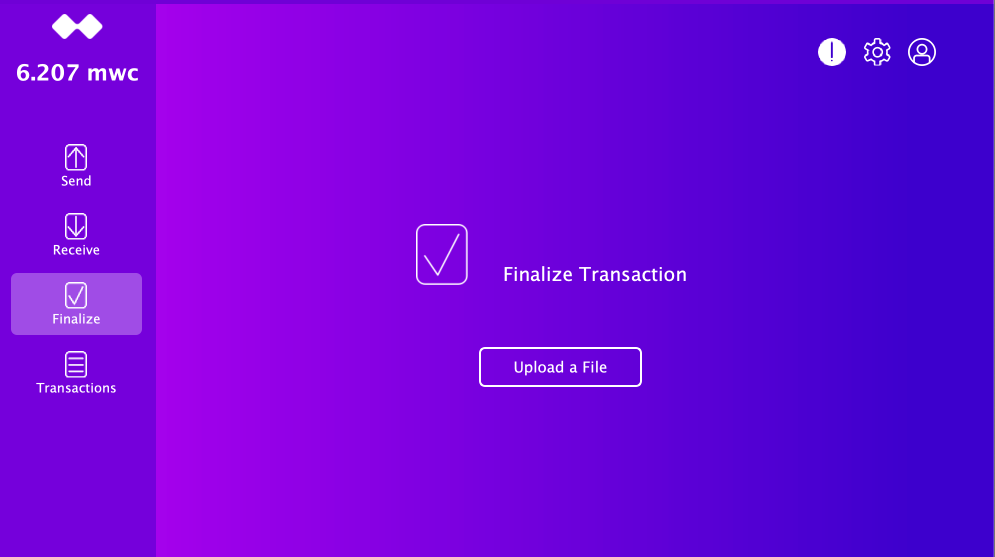
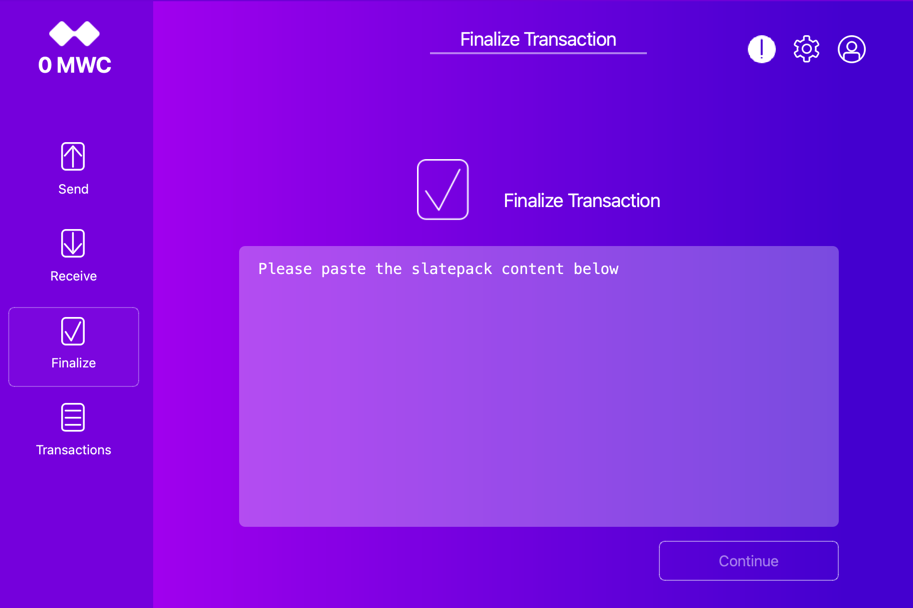
Cold wallet documentation update

diff --git a/DOC/cold_wallet.md b/DOC/cold_wallet.md
@@ -93,13 +93,7 @@ Please note, this online host will never have access to your wallet passphrase o
 
    <img src="cold_wallet_images/cold_wallet_node_overview.png" max-width="300" height="300"/>
 
-   You should see that the node is not able to sync.
    The first time you run your cold wallet, it will have 0 blocks.
-
-   Important! If your node is syncing, you are connected to the network. Shutdown MWC Qt Wallet immediately and review the steps for ensuring you are disconnected from the network in the section _Disable All Network Connections_ in:<br/>
-
-   [MWC Cold Wallet Software Installation Guide](https://github.com/mwcproject/mwc-qt-wallet/blob/master/DOC/cold_wallet_software_installation_guide.md)
-
 
 ### Online Node Setup
 
@@ -201,7 +195,6 @@ Perform the following steps on the machine running your _cold wallet_ to import 
 2) In the MWC Node Status screen:
 
     <img src="cold_wallet_images/load_chain_data.png" max-width="300" height="300"/>
-
    *  Click _Load Blockchain Data_
    *  Select the file, on your file transfer USB device, with the exported blockchain data from your _online node_.
    *  Click _Open_ at the top of the file selection screen.
@@ -226,25 +219,23 @@ The initial transaction file should have the extension '.tx'.
 
    * Click on the _Receive_ icon in the left hand menu bar of MWC Qt Wallet.
 
-   * Click _Receive MWC by file_ to sign the incoming transaction.
-
        <img src="cold_wallet_images/receive_mwc.png" max-width="300" height="300"/>
 
-   * Select the transaction file with the .tx file extension on your file transfer USB device.
-     
-     The signed transaction file will be created in the same path as your transaction file. New file extention will be '.response'.
-
+   * Paste the Receive slate and press _Continue_.
+   * Review Receive Transaction details. If everything looks good, press _Generate Response button_.
+   * Generated respose save on USB stick by clicking _Save Slatepack_ button.
    * Eject your file transfer USB device from your _cold wallet host_ computer.
 
 3) On your _online node host_ computer:
 
    * Insert the file transfer USB device.
+   * Send Slatepack to your peer for finalization.
+   * Wait when your peer conform that transaction is finalized.
+   * Check the block explorer at https://explorer.mwc.mw to see that the finalized transaction was mined in the block. 
 
-   * Send the signed transaction file back to the MWC coin sender for finalization. This is by whatever means you have agreed upon for exchanging files with the sender.
-
-   * Check the block explorer at https://explorer.mwc.mw to see that the transaction has been finalized. 
-
-4) To verify that your transaction has been finalized, use the 'Transfer Online Node Blockchain Data' procedure to export blockchain data from your online node to your cold wallet. Continue to the next step once your cold wallet has been updated with the blockchain data.
+4) To verify that your transaction has been finalized, use the 'Transfer Online Node Blockchain Data' procedure to export 
+blockchain data from your online node to your cold wallet. Continue to the next step once your cold wallet has been 
+updated with the blockchain data.
 
    * On your _cold wallet host_ computer:
 
@@ -253,7 +244,9 @@ The initial transaction file should have the extension '.tx'.
 
 Congratulations, you received the MWC in your offline wallet.
 
-Note: You will not be able to send coins you have received using your cold wallet until the transactions with the coins have been fully confirmed. The only way your cold wallet will know if the transactions are confirmed is if you import blockchain data which shows that the transactions are confirmed.
+Note: You will not be able to send coins you have received using your cold wallet until the transactions with the coins 
+have been fully confirmed. The only way your cold wallet will know if the transactions are confirmed is if you import 
+blockchain data which shows that the transactions are confirmed.
 
 ### Send MWC
 
@@ -262,16 +255,13 @@ Note: You will not be able to send coins you have received using your cold walle
    * Click the _Send_ icon in the left hand menu bar of MWC Qt Wallet.
 
      <img src="cold_wallet_images/send_cold_wallet.png" max-width="300" height="300"/>
-
+     
    * In the _Send coins_ screen:
 
       * Enter the amount of MWC you would like to send.
-      * Click _Next_
-
-   * In the _Send to File_ screen:
-
+      * Specify recipient slatepack address, so your slatepack data will be encrypted for that wallet.
       * Optionally enter a note for the transaction.
-      * Click _Send_
+      * Click _Continue_
 
    * In the _Confirm Send Request_ screen:
 
@@ -279,9 +269,7 @@ Note: You will not be able to send coins you have received using your cold walle
       * Click _Confirm_
 
    * In the file window that appears:
-
-      * Select the file transfer USB device as where to store the transaction file.
-      * Enter a name for your file. The file will be saved with a .tx extenstion.
+      * Press _Save slatepack_ and specify the file located at your USB device. 
       * Click _Save_
 
    * Eject the file transfer USB device.
@@ -289,19 +277,19 @@ Note: You will not be able to send coins you have received using your cold walle
 2) On your _online node host_ computer:
 
    * Insert the file transfer USB device.
-   * Send the transaction file to the person whom you want to send MWC. This is by whatever means you have agreed upon for exchanging files with the receiver.
-   * Wait for the signed transaction file to be returned from the receiver.
-      * Save the signed transaction file to the file transfer USB device.
+   * Send the Slatepack content to the person whom you want to send MWC. This is by whatever means you have agreed upon 
+for exchanging files with the receiver.
+   * Wait for the signed Slatepack to be returned from the receiver.
+      * Save the response Slatepack to the file transfer USB device.
       * Eject the file transfer USB device
 
 3) On your _cold wallet host_ computer:
 
    * Insert the file transfer USB device
    * Select the _Finalize_ icon in the left hand menu bar of the cold wallet.
-   * Click _Upload a File_
+   * Copy paste the response Slatepack that is stored on your USB drive.
 
      <img src="cold_wallet_images/finalize1.png" max-width="300" height="300"/>
-
    * In the _Finalize Transaction_ screen that appears:
       * Note the location of the file in the _Result location_. This is the file that contains the slate that needs to be broadcast to the network so it can be recorded in the blockchain.
       * Click _Finalize_
@@ -324,7 +312,6 @@ Note: You will not be able to send coins you have received using your cold walle
     You should see a success message when your slate is published. If you see an error message:
     * Check that the transaction has not already been published.
     * Check that the transaction does not contain an output that was already used in another transaction. If so, cancel the transaction. Ensure you have a recent blockchain imported on your cold wallet, and start over.
-
       
     * Wait for some time until the transaction is accepted by the network and a few blocks have been mined.
 
